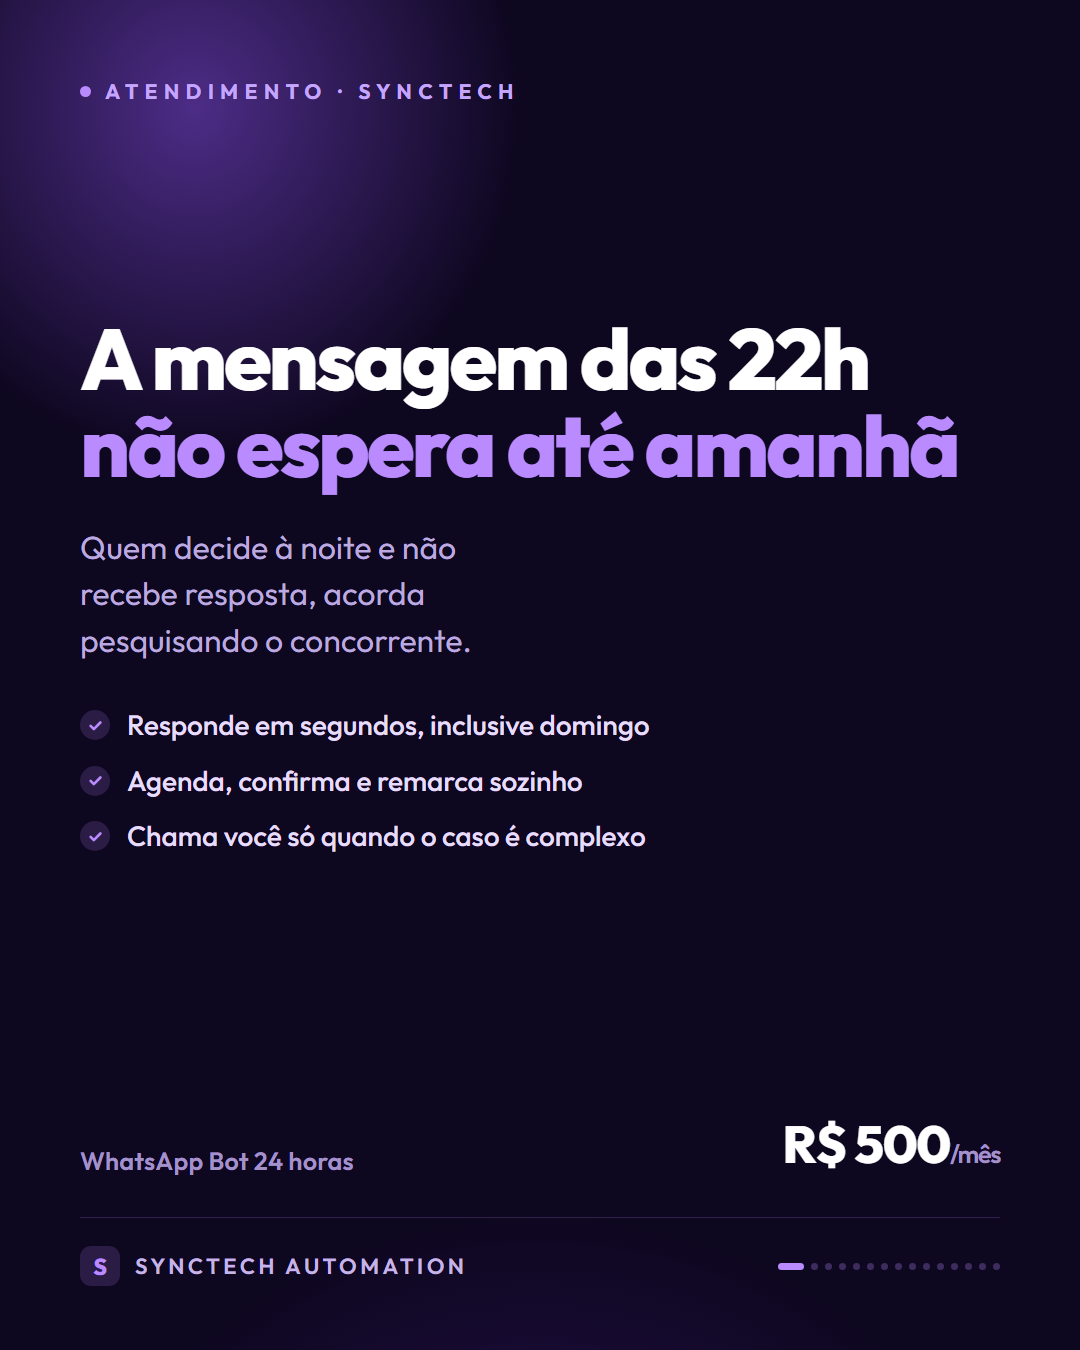
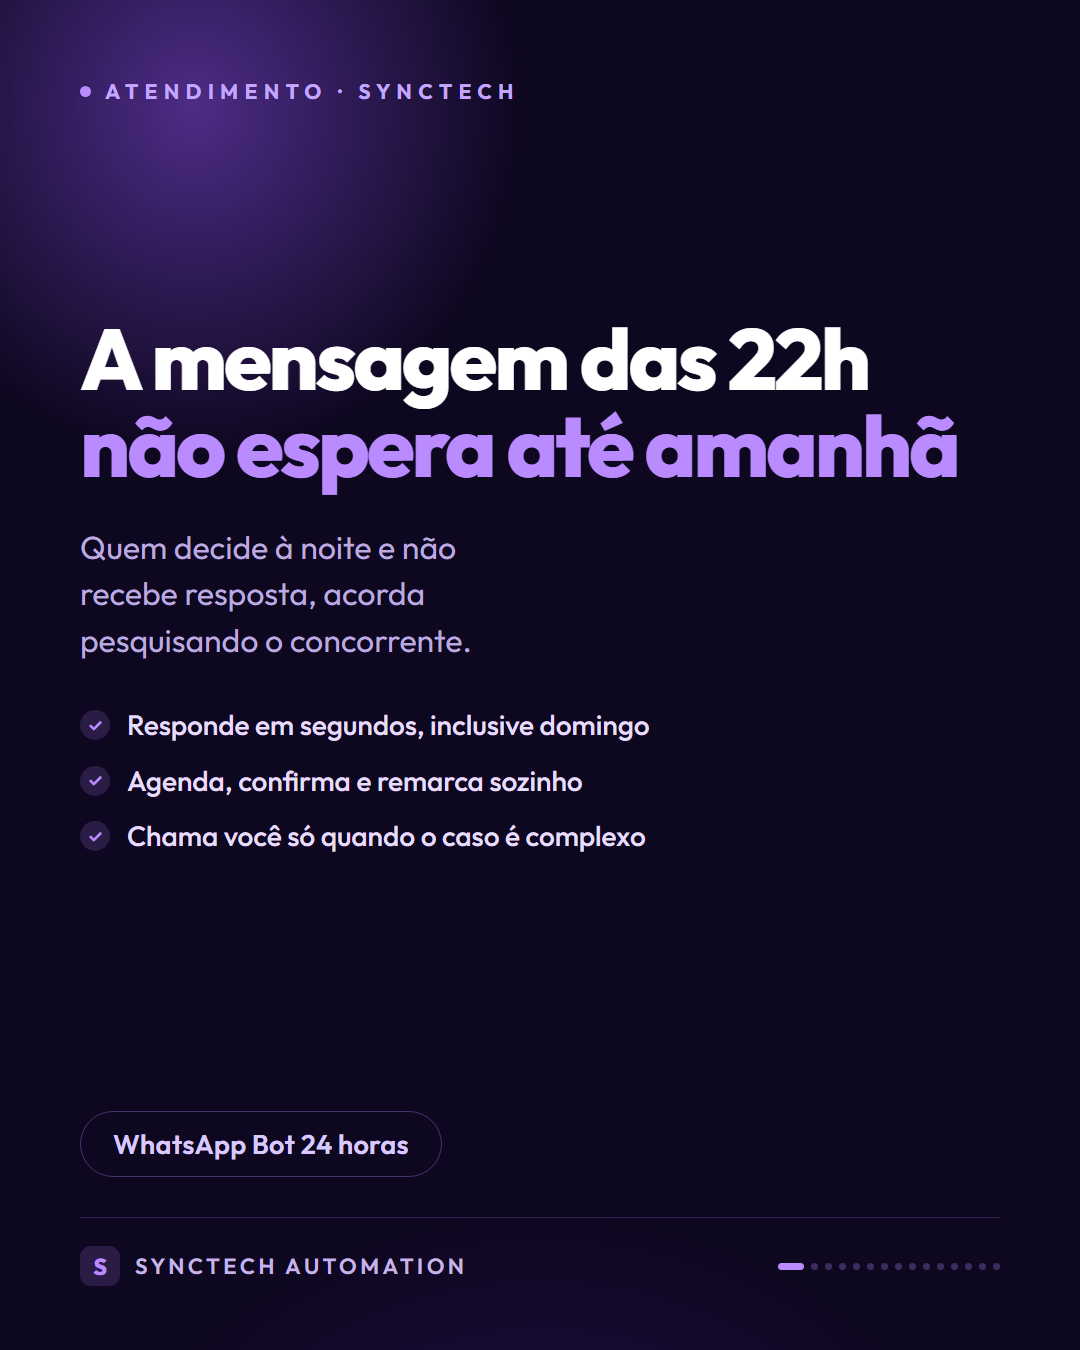
feed: tira o preco das artes
A pedido do Rafael. No lugar da faixa de preco entra um selo com o nome
do servico — sem ele algumas artes ficariam sem assunto identificavel
("Descobrir que acabou antes do cliente" podia ser estoque ou relatorio).

O preco continua na lista de dados porque as legendas saem da mesma
fonte e ainda o usam; so nao e desenhado na imagem.

Changed region(s): [[0.7028, 0.8089, 0.9167, 0.8711], [0.0611, 0.84, 0.3972, 0.8711]]

diff --git a/docs/_pdf/artes.py b/docs/_pdf/artes.py
@@ -162,7 +162,9 @@ def esc(t):
     return t.replace('&', '&amp;').replace('<', '&lt;').replace('>', '&gt;')
 
 
-def arte(i, familia, titulo, manchete, apoio, ganhos, servico, preco, brilho):
+def arte(i, familia, titulo, manchete, apoio, ganhos, servico, _preco, brilho):
+    """O preco saiu da arte a pedido do Rafael. O campo continua na lista
+    porque as legendas saem da mesma fonte e ainda o usam."""
     bolinhas = ''.join(
         '<span class="%s"></span>' % ('on' if k == i else '')
         for k in range(len(ARTES)))
@@ -193,10 +195,9 @@ li i{flex:none;width:30px;height:30px;margin-top:3px;border-radius:50%%;
   background:rgba(185,139,255,.17);display:flex;align-items:center;justify-content:center}
 li svg{display:block}
 
-.preco{margin-top:auto;padding-top:46px;display:flex;align-items:flex-end;justify-content:space-between;gap:28px}
-.preco .sv{font-size:25px;font-weight:600;color:#A392C9;letter-spacing:.01em}
-.preco .vl{font-size:52px;font-weight:800;color:#FFFFFF;letter-spacing:-.025em;white-space:nowrap}
-.preco .vl small{font-size:25px;font-weight:600;color:#A392C9}
+.selo{margin-top:auto;padding-top:46px}
+.selo span{display:inline-block;border:1px solid rgba(185,139,255,.34);border-radius:999px;
+  padding:15px 32px;font-size:27px;font-weight:600;color:#D9C9FF;letter-spacing:.01em}
 
 .rodape{margin-top:40px;padding-top:28px;border-top:1px solid rgba(185,139,255,.20);
   display:flex;align-items:center;justify-content:space-between}
@@ -216,10 +217,7 @@ li svg{display:block}
 
 <ul>%(ganhos)s</ul>
 
-<div class="preco">
-  <span class="sv">%(servico)s</span>
-  <span class="vl">%(precoNum)s<small>%(precoSuf)s</small></span>
-</div>
+<div class="selo"><span>%(servico)s</span></div>
 
 <div class="rodape">
   <div class="marca"><div class="mk">S</div><b>SyncTech Automation</b></div>
@@ -238,9 +236,7 @@ li svg{display:block}
             '<path d="M2.8 8.4l3.4 3.4L13.2 4.8"/></svg></i><span>%s</span></li>' % esc(g)
             for g in ganhos),
         'servico': esc(servico),
-        'precoNum': preco.split('/')[0].split(' \u00fa')[0],
-        'precoSuf': ('/m\u00eas' if '/m\u00eas' in preco else ' \u00fanico'),
-        'dots': bolinhas,
+                'dots': bolinhas,
     }
 
 
